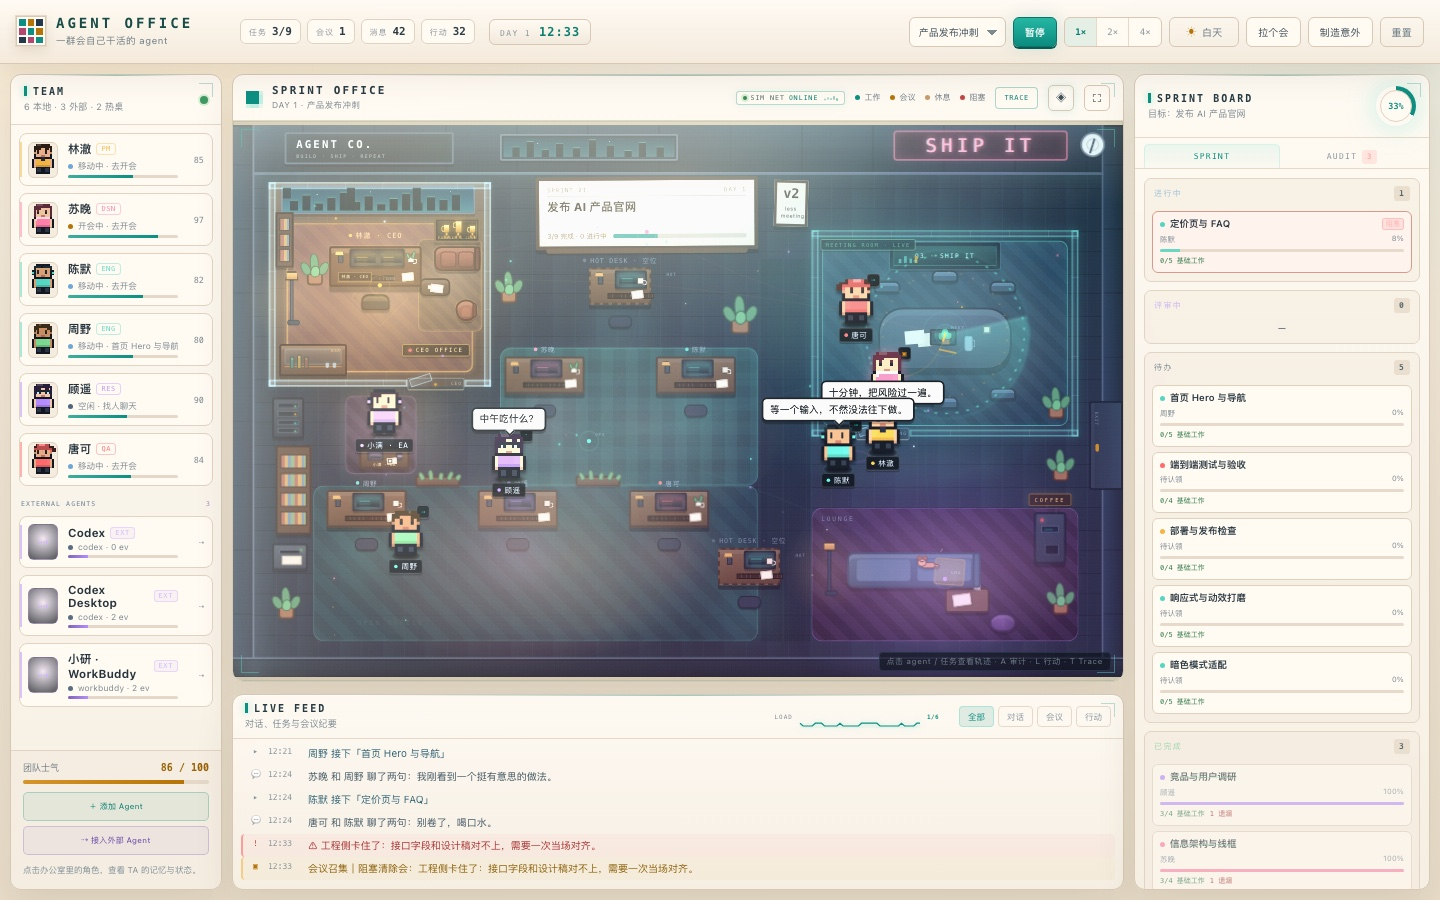
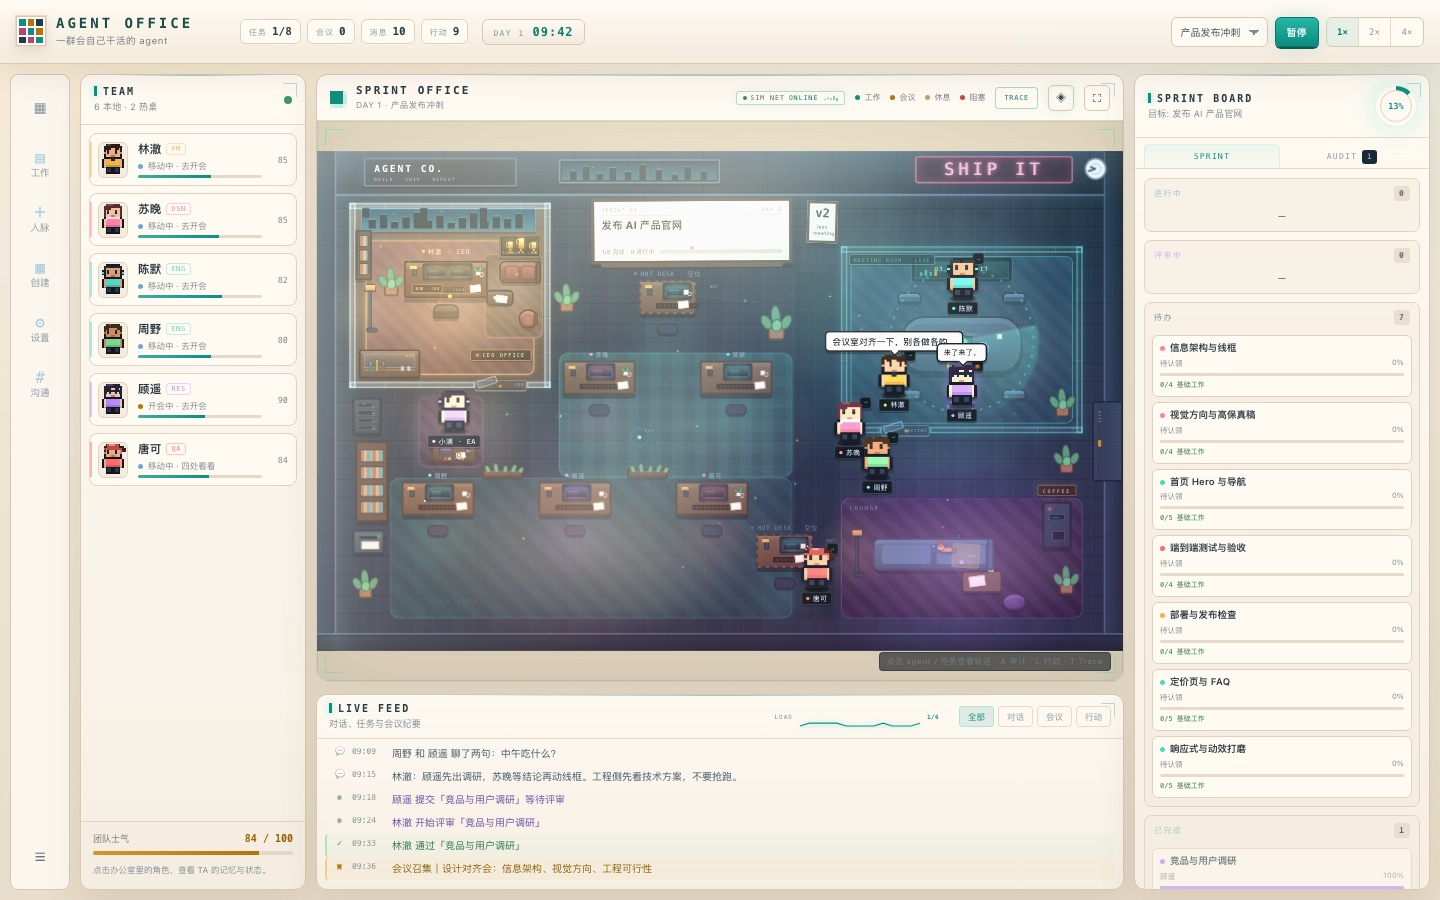
docs: publish clean demo screenshots and generic examples
Regenerate public README screenshots from a fresh demo state with local roles and demo data, remove personal agent names/IDs and mission details, drop the outdated delegation image, and make the 3-step AI setup honor the configured bridge URL.

diff --git a/src/ai-setup.js b/src/ai-setup.js
@@ -24,7 +24,9 @@
   }
 
   function bridge() {
-    return String(AO.BRIDGE_DEFAULT || "http://127.0.0.1:8787").replace(/\/+$/, "");
+    let stored = "";
+    try { stored = localStorage.getItem("agent-office.bridge-url") || ""; } catch (err) {}
+    return String(stored || AO.BRIDGE_DEFAULT || "http://127.0.0.1:8787").replace(/\/+$/, "");
   }
 
   class AISetup {

diff --git a/tests/test_missions.py b/tests/test_missions.py
@@ -69,7 +69,7 @@ class MissionTest(unittest.TestCase):
         self.assertEqual(external["brand"], "Codex")
         self.assertEqual(external["logoText"], "CX")
         workbuddy = missions.normalize_agent({
-            "id": "ext-wb", "name": "小研 · WorkBuddy", "runtime": "workbuddy",
+            "id": "ext-wb", "name": "Demo Worker · WorkBuddy", "runtime": "workbuddy",
         }, "external")
         self.assertEqual(workbuddy["brand"], "WorkBuddy")
         self.assertEqual(workbuddy["logoText"], "WB")

diff --git a/README.md b/README.md
@@ -205,7 +205,6 @@ curl -X PATCH http://127.0.0.1:8787/assignments/asg-xxxxxxxx \
 
 演示 Agent 会自动推进它的 Assignment，所以不需要真实 Agent 也能看完整流程。
 
-![Task delegation](docs/screenshots/delegation.jpg)
 
 详细协议、状态机和边界见 [docs/TASK_DELEGATION.md](docs/TASK_DELEGATION.md)。
 
@@ -786,7 +785,7 @@ python3 -m unittest discover -s tests -v
 - 发布清单：[docs/OPEN_SOURCE_CHECKLIST.md](docs/OPEN_SOURCE_CHECKLIST.md)
 - Roadmap / 已知缺口：[docs/ROADMAP.md](docs/ROADMAP.md)
 
-仓库已经公开；当前版本 `1.12.0`，历史版本见 GitHub Releases。发布清单见 `docs/OPEN_SOURCE_CHECKLIST.md`。
+仓库已经公开；当前版本 `1.12.1`，历史版本见 GitHub Releases。发布清单见 `docs/OPEN_SOURCE_CHECKLIST.md`。
 
 ## 已知限制
 

diff --git a/docs/OPEN_SOURCE_CHECKLIST.md b/docs/OPEN_SOURCE_CHECKLIST.md
@@ -27,7 +27,7 @@
 4. Add topics:
    `agents`, `multi-agent`, `observability`, `llm`, `agentops`, `opentelemetry`, `simulation`, `pixel-art`, `local-first`, `one-person-company`, `group-chat`, `i18n`.
 5. Upload a screenshot as the social preview (use `docs/screenshots/office.jpg`).
-6. Tag releases and publish notes from `CHANGELOG.md` (currently `v1.12.0`).
+6. Tag releases and publish notes from `CHANGELOG.md` (currently `v1.12.1`).
 7. Enable Issues and Discussions (recommended).
 8. Enable GitHub Pages with **Source: GitHub Actions** if you want a live UI demo
    (the static office works; external-agent pairing needs a local bridge).

diff --git a/CHANGELOG.md b/CHANGELOG.md
@@ -1,5 +1,16 @@
 # Changelog
 
+## [1.12.1] - 2026-11-26
+
+### Fixed
+- The 3-step AI setup now uses the configured bridge URL instead of always calling `127.0.0.1:8787`.
+
+### Changed
+- Regenerated the public README screenshots from a clean demo state with generic local agents and demo data. Personal external-agent names, IDs, missions and model endpoint details are no longer shown.
+- Removed the old task-delegation screenshot that showed a personal external agent.
+- MCP examples use a generic `ext-demo-agent` identity.
+- Version bumped to 1.12.1.
+
 ## [1.12.0] - 2026-11-26
 
 ### Added

diff --git a/docs/MCP.md b/docs/MCP.md
@@ -27,7 +27,7 @@ Generated shape:
       "type": "http",
       "url": "http://127.0.0.1:8787/mcp",
       "headers": {
-        "X-Agent-Id": "ext-61fcf518"
+        "X-Agent-Id": "ext-demo-agent"
       }
     }
   }
@@ -72,7 +72,7 @@ must be the assignee of a task to report on it. The existing mission rules
 ```bash
 curl -s http://127.0.0.1:8787/mcp \
   -H 'Content-Type: application/json' \
-  -H 'X-Agent-Id: ext-61fcf518' \
+  -H 'X-Agent-Id: ext-demo-agent' \
   -d '{"jsonrpc":"2.0","id":1,"method":"tools/list","params":{}}'
 ```
 

diff --git a/README.en.md b/README.en.md
@@ -198,7 +198,6 @@ curl -X PATCH http://127.0.0.1:8787/assignments/asg-xxxxxxxx \
   -d '{"status":"completed","progress":100,"result":"12 tests passed","evidence":["tests/12-passed"]}'
 ```
 
-![Task delegation](docs/screenshots/delegation.jpg)
 
 The demo agent advances its assignments automatically, so the flow can be
 demonstrated without a separate process. See
